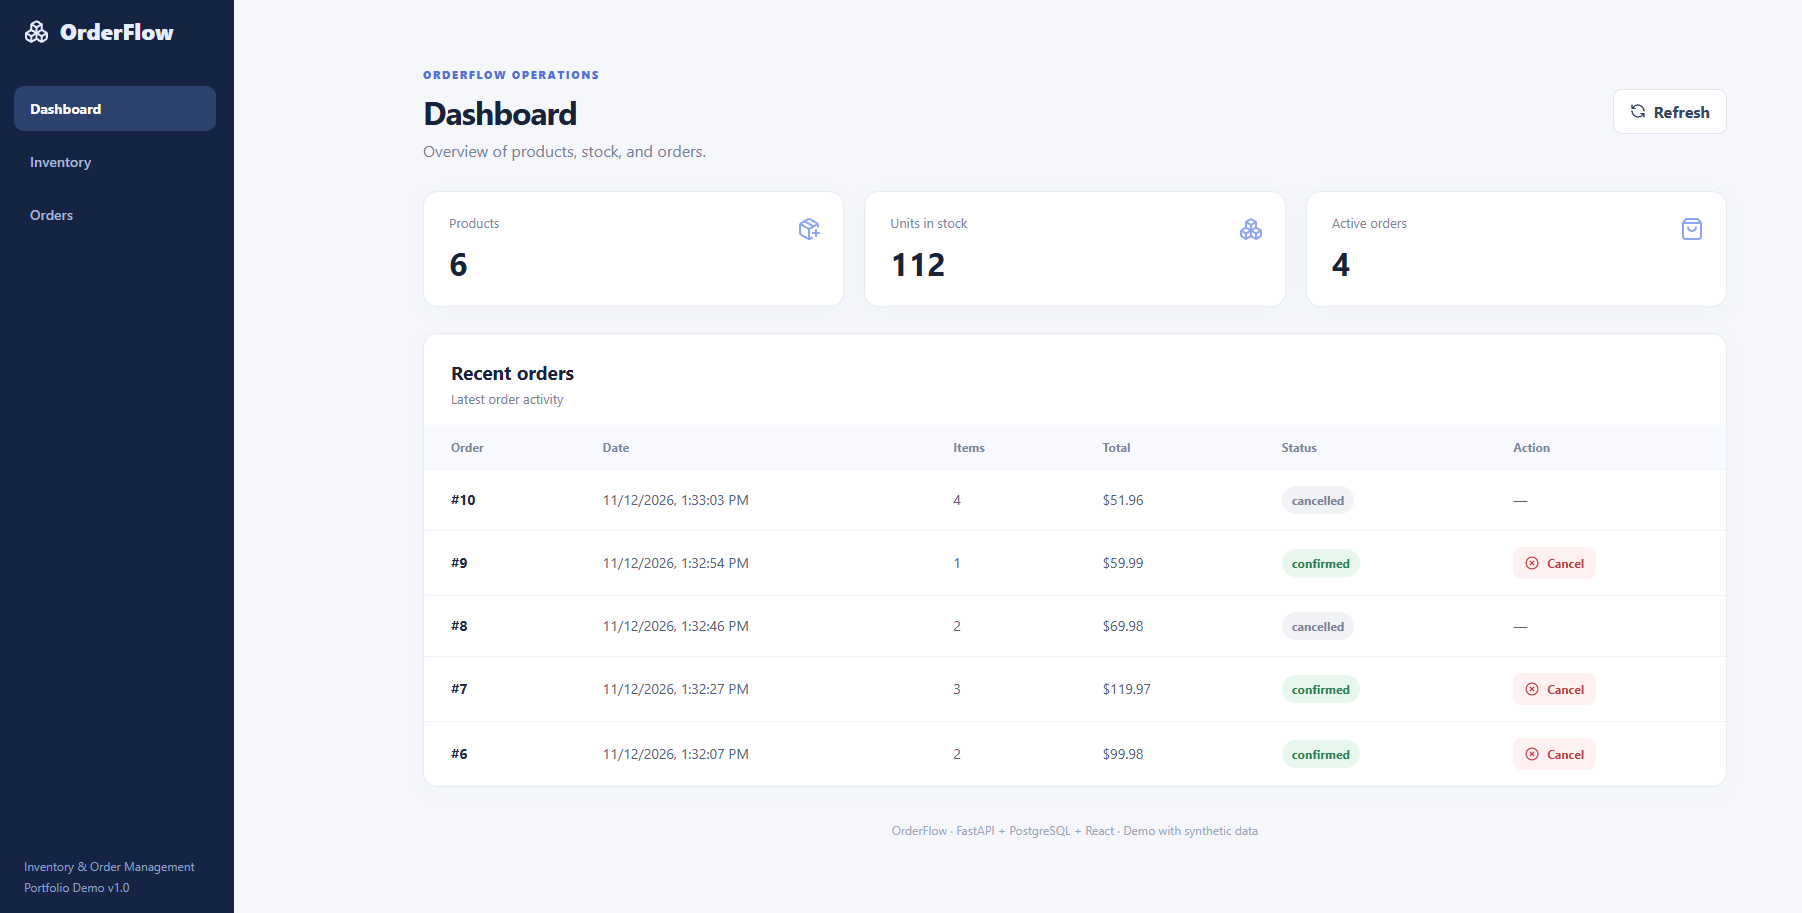
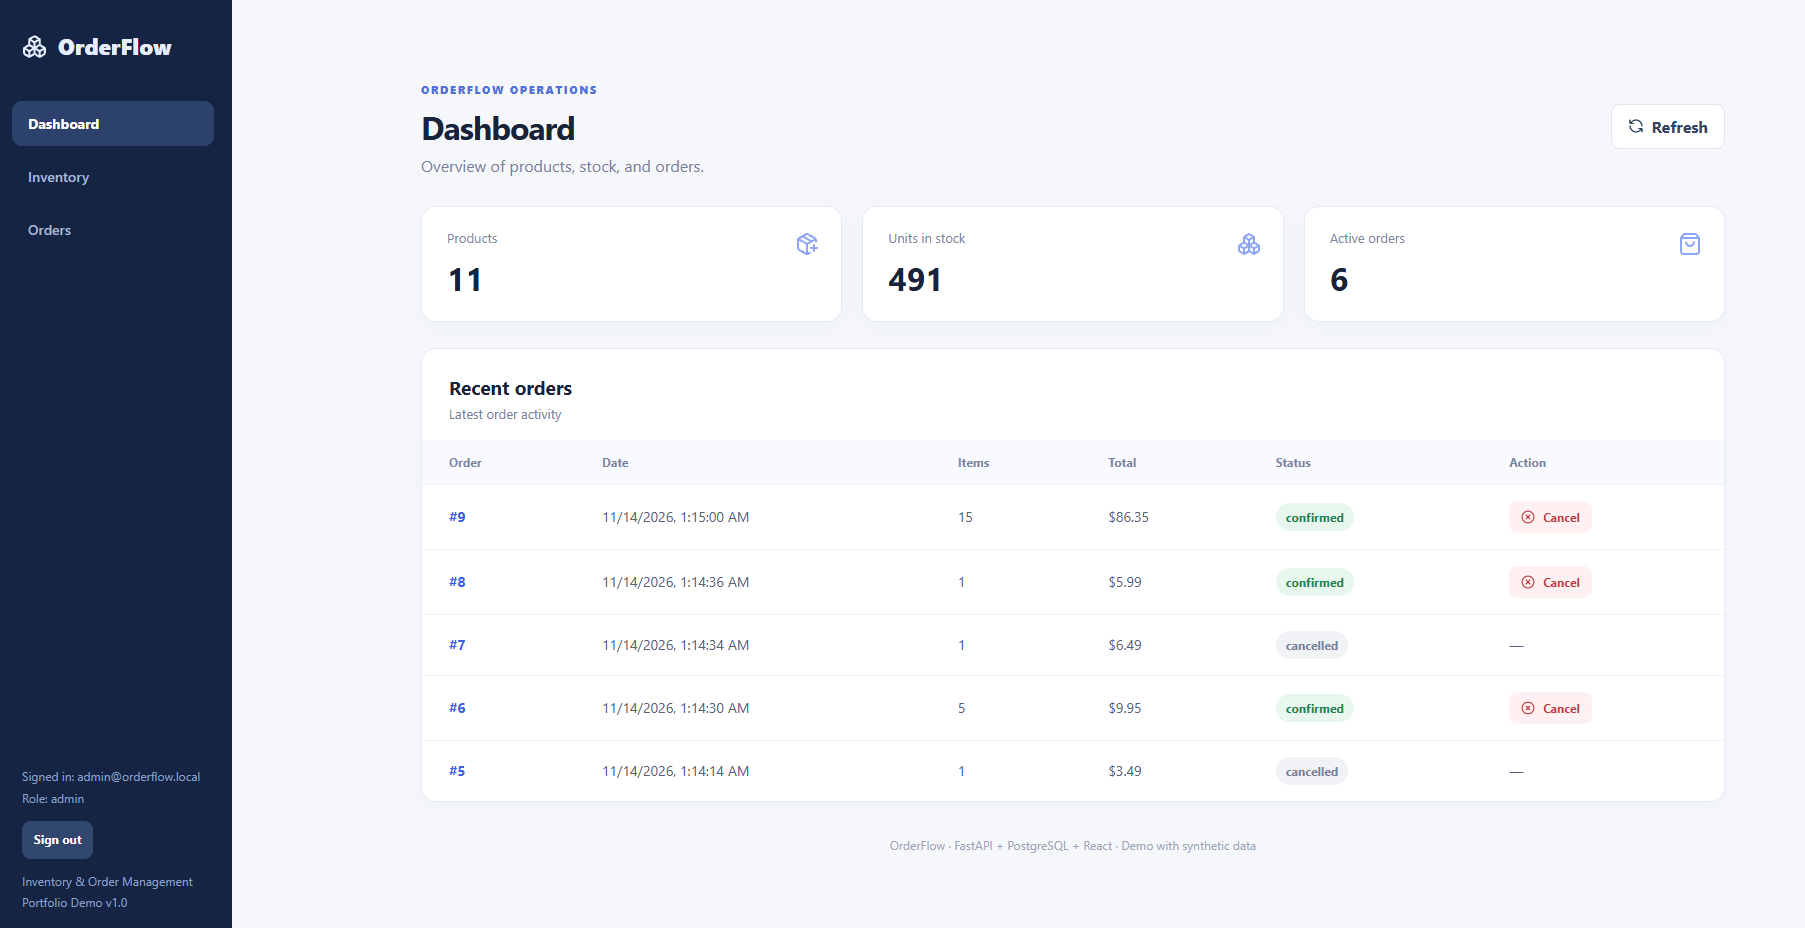
docs: update portfolio screenshots

diff --git a/README.md b/README.md
@@ -1,129 +1,121 @@
-# OrderFlow — Inventory & Order Management Platform
+# OrderFlow
 
-A backend-focused full-stack portfolio application using **FastAPI, PostgreSQL, SQLAlchemy, Alembic, React, TypeScript, Docker, and GitHub Actions**. Uses synthetic demo data.
+OrderFlow is a small inventory and order management app I built to get more hands on experience with backend development. It lets users manage products, track stock, place orders, and cancel orders without losing track of inventory.
 
-## Application Screenshots
+The main challenge I wanted to work through was keeping stock counts accurate when multiple requests happen at the same time. I also wanted to take a project beyond local development, so OrderFlow includes authentication, automated tests, and a live deployment.
+
+**[Live app](https://orderflow-platform-beryl.vercel.app/)** · **[API docs](https://orderflow-api-3dz8.onrender.com/docs)**
+
+The app requires an account to sign in. Public demo credentials are not available yet. Since the API runs on Render's free tier, the first request after a period of inactivity may take a little longer.
+
+## What it does
+
+- **Products and inventory:** Admins can add products, update details, adjust stock, and delete products that are not referenced by orders.
+- **Orders:** Users can create orders with multiple items. The app checks stock, deducts the quantities, and saves the price of each item at the time of purchase.
+- **Cancellations:** Admins can cancel orders, and the app returns the reserved quantities to inventory.
+- **Accounts and permissions:** Users sign in with JWT-based authentication. Admins manage inventory and cancellations; staff can view products and create orders.
+- **Stock protection:** The API rejects orders when there is not enough stock, including when requests arrive concurrently.
+
+## Screenshots
+
+## Screenshots
 
 ### Dashboard
-Overview of products, available inventory, and recent orders.
+Overview of products, inventory, and orders.
 
-![OrderFlow Dashboard](screenshots/dashboard.png)
+![Dashboard](screenshots/dashboard.png)
 
-### Inventory Management
-Manage products, monitor stock levels, and create orders.
+### Inventory Management — Admin
+Admins can manage products and update inventory.
 
-![OrderFlow Inventory](screenshots/inventory.png)
+![Admin Inventory](screenshots/inventory-admin.png)
 
-### Order Management
-Track order status, review totals, and cancel orders.
+### Inventory — Staff
+Staff can view inventory without access to admin-only controls.
 
-![OrderFlow Orders](screenshots/orders.png)
+![Staff Inventory](screenshots/inventory-staff.png)
 
+### Orders
+View and manage customer orders.
 
-## Features
-- Product create/list/detail/update/delete (products referenced by orders cannot be deleted)
-- Atomic inventory adjustments with insufficient-stock conflict handling
-- Multi-item order creation with transactional stock deduction and price snapshots
-- Duplicate product lines consolidated within each order
-- Concurrent stock updates guarded by PostgreSQL conditional UPDATE
-- Order cancellation restores inventory once, using a locked order row
-- Responsive React dashboard for product creation, cart-like ordering, and cancellation
-- OpenAPI documentation, Alembic database migrations, and 10 automated tests integrated with GitHub Actions CI
+![Orders](screenshots/orders.png)
 
-## Quick start (Windows 11 + Docker Desktop)
+### Order Details
+View ordered products, quantities, unit prices, and totals.
 
-Open PowerShell in the `orderflow-platform` folder:
+![Order Details](screenshots/order-details.png)
+
+## Tech stack
+
+- **Backend:** Python, FastAPI, SQLAlchemy, Alembic, Psycopg 3
+- **Database:** PostgreSQL
+- **Frontend:** React, TypeScript, Vite
+- **Authentication:** JWT and role-based access control
+- **Development and testing:** Docker Compose, pytest, GitHub Actions
+- **Hosting:** Vercel (frontend), Render (API), Neon (PostgreSQL)
+
+## A few implementation details
+
+### Preventing overselling
+
+Consider two orders arriving at nearly the same time, both trying to buy the last item in stock. Reading the quantity first and updating it later is not enough: both requests could see the same available stock.
+
+OrderFlow uses a conditional PostgreSQL `UPDATE` inside a transaction. Stock is deducted only if enough inventory is still available when the update runs. If not, the API returns a conflict instead of allowing the quantity to go negative.
+
+### Making cancellations safe
+
+Canceling an order needs to restore its stock, but doing that twice would inflate inventory. The cancellation flow locks the order row so concurrent cancellation requests cannot both restore the same items.
+
+### Keeping the database schema and tests in sync
+
+I use Alembic for schema changes and a separate PostgreSQL test database for integration tests. The backend currently has **11 passing tests**, covering product operations, order creation and cancellation, concurrent requests, and authentication/permissions. GitHub Actions runs checks on pushes and pull requests.
+
+## Running locally
+
+You will need Docker Desktop and Docker Compose.
+
+1. Clone the repository and open a terminal in its root directory.
+2. Set up the local environment files. The root `.env` needs a `JWT_SECRET_KEY`; use `backend/.env.example` as a reference for backend settings. Keep real secrets out of Git.
+3. Start the services:
+
+   ```powershell
+   docker compose up -d --build
+   ```
+
+4. Apply database migrations:
+
+   ```powershell
+   docker compose run --rm -e PYTHONPATH=/code backend alembic upgrade head
+   ```
+
+5. Create an admin account (you'll be prompted for a password):
+
+   ```powershell
+   docker compose run --rm -e PYTHONPATH=/code backend python create_user.py --email admin@orderflow.local --role admin
+   ```
+
+Once the services are running:
+
+- App: http://localhost:5173
+- API documentation: http://localhost:8000/docs
+- Health check: http://localhost:8000/health
+
+Stop the services with `docker compose down`. Avoid `docker compose down -v` unless you intend to remove the local database volume.
+
+## Running tests
+
+Tests use a separate database named `orderflow_test`. Create it and apply the latest Alembic migrations before running the suite. Do not run the tests against your development or cloud database.
 
 ```powershell
-docker compose up --build -d
-docker compose exec backend alembic upgrade head
+docker compose run --rm -e PYTHONPATH=/code -e DATABASE_URL=postgresql+psycopg://orderflow:orderflow_dev@db:5432/orderflow_test backend pytest -q
 ```
 
-Open:
-- Frontend: http://localhost:5173
-- API docs: http://localhost:8000/docs
-- Health: http://localhost:8000/health
+## How it's deployed
 
-Create a product in the dashboard, enter a quantity in **Add to order**, and select **Create order**. Orders are confirmed immediately for this demo; no payment provider is integrated.
+The React app is hosted on Vercel. Requests to `/api` are forwarded to the FastAPI service on Render, which connects to PostgreSQL on Neon. The same project also runs locally with Docker Compose.
 
-Stop containers: `docker compose down`. Keep data: do not use `-v` unless you intentionally want to delete this project's Docker database volume.
+The deployed app has been tested with the full order flow: sign in, add a product, adjust stock, create an order, and cancel it to restore inventory.
 
-**Port conflicts:** PostgreSQL host port is `5433`, leaving an existing PostgreSQL installation on `5432` untouched. If port `8000` or `5173` is occupied, adjust the host side of the port mapping in `compose.yaml`.
+## Current limitations
 
-## API routes
-| Method | Path | Purpose |
-|---|---|---|
-| GET | `/health` | Health check |
-| GET/POST | `/products` | List/create products |
-| GET/PATCH/DELETE | `/products/{id}` | Read/update/delete product |
-| PATCH | `/products/{id}/inventory` | Atomic stock change |
-| GET/POST | `/orders` | List/create orders |
-| GET | `/orders/{id}` | Read order |
-| POST | `/orders/{id}/cancel` | Cancel and restock |
-
-Example order request:
-```json
-{"items":[{"product_id":1,"quantity":2},{"product_id":2,"quantity":1}]}
-```
-
-## Testing
-
-OrderFlow includes 10 automated tests covering:
-
-- API health and request validation
-- Product creation, retrieval, updates, and deletion
-- Inventory updates and insufficient-stock protection
-- Order creation, retrieval, and cancellation
-- Inventory restoration after cancellation
-- Concurrent order placement to prevent overselling
-- Concurrent cancellation to prevent duplicate restocking
-
-### Run Tests Locally
-
-Create and migrate the test database before the first run.
-
-Run the complete test suite:
-
-```powershell
-docker compose exec -e PYTHONPATH=/code -e DATABASE_URL=postgresql+psycopg://orderflow:orderflow_dev@db:5432/orderflow_test backend pytest -v
-```
-
-Expected result: 10 tests passed.
-
-### Continuous Integration
-
-GitHub Actions automatically runs on pushes and pull requests.
-
-The CI pipeline:
-
-1. Starts PostgreSQL 17.
-2. Installs Python dependencies.
-3. Applies Alembic database migrations.
-4. Runs all backend tests.
-5. Installs frontend dependencies.
-6. Builds the React/TypeScript frontend.
-
-### Concurrency Safety
-
-OrderFlow uses PostgreSQL transactions and atomic inventory updates to prevent overselling.
-
-Order cancellation uses row-level locking to prevent concurrent cancellation requests from restoring inventory more than once.
-
-These behaviors are verified by dedicated concurrency integration tests.
-
-**Note:** OrderFlow is a portfolio MVP, not a production-ready payment or fulfillment system.
-
-
-## Architecture
-- `backend/app/main.py` HTTP endpoints and transactional operations
-- `backend/app/models.py` relational schema
-- `backend/app/schemas.py` request and response validation
-- `backend/migrations/` versioned PostgreSQL schema
-- `frontend/src/` React dashboard
-- `.github/workflows/ci.yml` Python and TypeScript checks
-
-## Security & limitations
-- **Demo only:** no authentication, authorization, payment processing, or production secrets management.
-- Do not expose the API or database publicly without adding authentication, network restrictions, and production configuration.
-- The development PostgreSQL password is intentionally sample-only. Replace it before deployment.
-- Data persists in a dedicated Docker volume; the previous learning OMS project is not modified.
+This is a portfolio project using synthetic data, not a commercial order processing system. It does not handle payments, shipping, or customer accounts. I would also add monitoring, stronger operational safeguards, and more deployment automation before using it for real business data.
